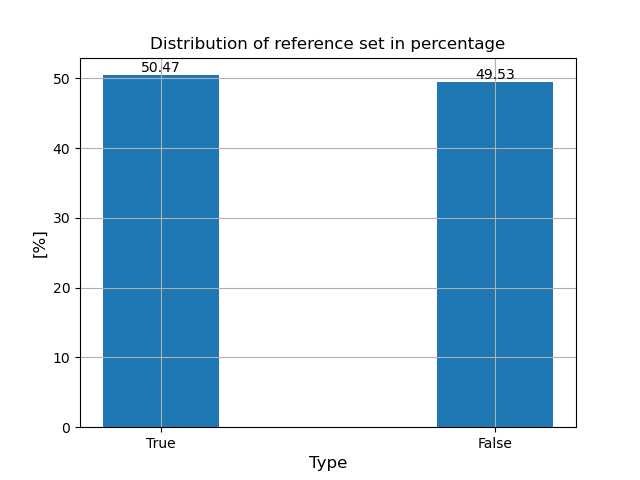
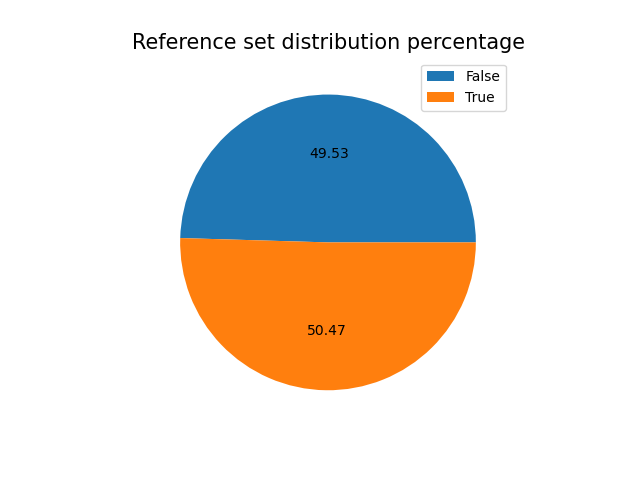
Update task 3

diff --git a/main_scripts/task_3.py b/main_scripts/task_3.py
@@ -7,49 +7,17 @@ import matplotlib.pyplot as plt
 
 
 ref_df, ref_keys = utils.get_img_keys(ref_df)
-fs = 12
-
-# 3: Is the reference set balanced? Please demonstrate via numbers and visualizations.
+fs = 15
 
 # Get data
-ref_ans = [[key, ref_df[key]['is_bicycle']] for key in ref_keys]
+ref_ans = [[ref_key, ref_df[ref_key]['is_bicycle']] for ref_key in ref_keys]
+ref_ans = np.array(ref_ans)
 
-# Get unique values and counts
-answers, answer_count = np.unique(np.array(ref_ans)[:, 1], return_counts=True)
-
-
-# Numerics visualization
-false_count, true_count = answer_count  # Count number of true and false values
-total = true_count + false_count        # Count the total values
-diff = abs(true_count - false_count)    # Count the difference between two types
-
-# - Percentage values
-true_percent = round(true_count / total * 100, 2)
-false_percent = round(false_count / total * 100, 2)
-diff_percent = round(diff / total * 100, 2)
-
-print("True samples                 : {} in {} ({}%)".format(true_count, total, true_percent))
-print("False samples                : {} in {} ({}%)".format(false_count, total, false_percent))
-print("Difference between two counts: {}           ({}%)".format(diff, diff_percent))
-
-
-# Visualization
-# - Display in sample counts
-fig1, ax1 = plt.subplots()
-rects1 = ax1.bar(["True", "False"], [true_count, false_count], width=0.35)
-ax1.set_title("Distribution of reference set", fontsize=fs)
-ax1.set_xlabel("Type", fontsize=fs)
-ax1.set_ylabel("[count]", fontsize=fs)
-ax1.grid(True)
-utils.auto_label(rects1, [true_count, false_count], ax1)
-
-# - Display in percentage
-fig2, ax2 = plt.subplots()
-rects2 = ax2.bar(["True", "False"], [true_percent, false_percent], width=0.35)
-ax2.set_title("Distribution of reference set in percentage", fontsize=fs)
-ax2.set_xlabel("Type", fontsize=fs)
-ax2.set_ylabel("[%]", fontsize=fs)
-ax2.grid(True)
-utils.auto_label(rects2, [true_percent, false_percent], ax2)
+# Store the collected data in Pandas DataFrame
+ref_ans_df = pd.DataFrame({'key': ref_ans[:, 0], 'is_bicycle': ref_ans[:, 1]})
+ref_ans_df = ref_ans_df.groupby('is_bicycle').nunique()
+ref_ans_df = ref_ans_df.rename(columns={"key": "count"})
+ax = ref_ans_df.plot.pie(y='count', autopct='%.2f', labels=None)
+ax.set_title("Reference set distribution percentage", fontsize=fs)
 
 plt.show()

diff --git a/main_scripts/task_2.py b/main_scripts/task_2.py
@@ -68,7 +68,7 @@ for vendor_user_id in unsolved_user:
     grouped_unsolved_data.append([vendor_user_id, cant_solve_count, corrupt_data_count])
 
 
-# Store data in Pandas dataframe
+# Store data in Pandas DataFrame
 grouped_unsolved_data_df = pd.DataFrame({'vendor_user_id': np.array(grouped_unsolved_data)[:, 0],
                                          'cant_solve': np.array(grouped_unsolved_data)[:, 1],
                                          'corrupt_data': np.array(grouped_unsolved_data)[:, 2]})

diff --git a/main_scripts/task_4_export.py b/main_scripts/task_4_export.py
@@ -87,7 +87,7 @@ for annotator_package in annotators_packages:
     annotators_quality.append([annotator_id.split("_")[1], correct, incorrect, null, total])
 
 
-# Store data in Pandas dataframe
+# Store data in Pandas DataFrame
 annotators_quality = np.array(annotators_quality)
 label = annotators_quality[:, 0]
 correct = [int(item) for item in annotators_quality[:, 1]]
